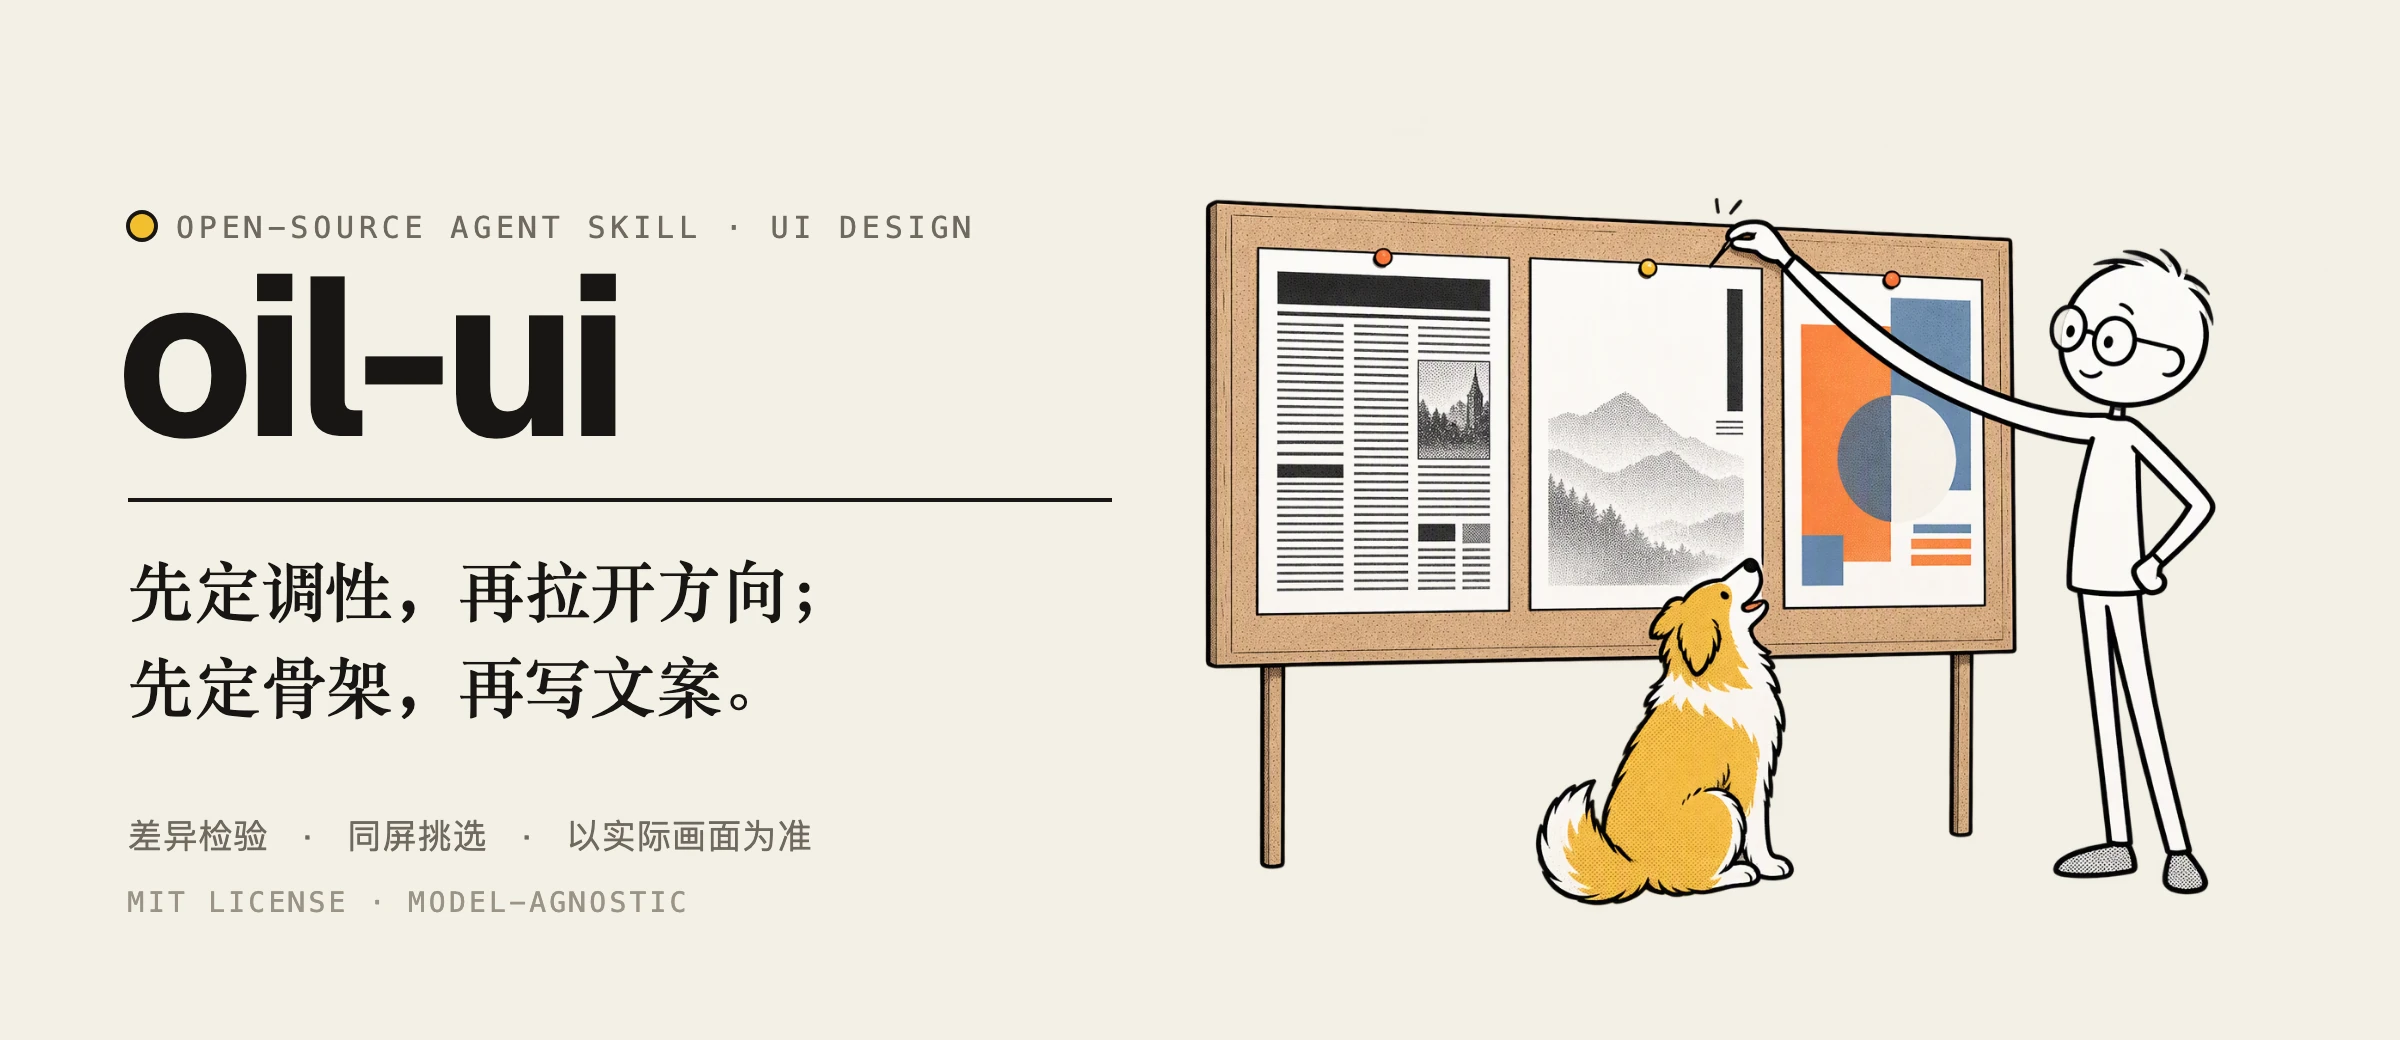
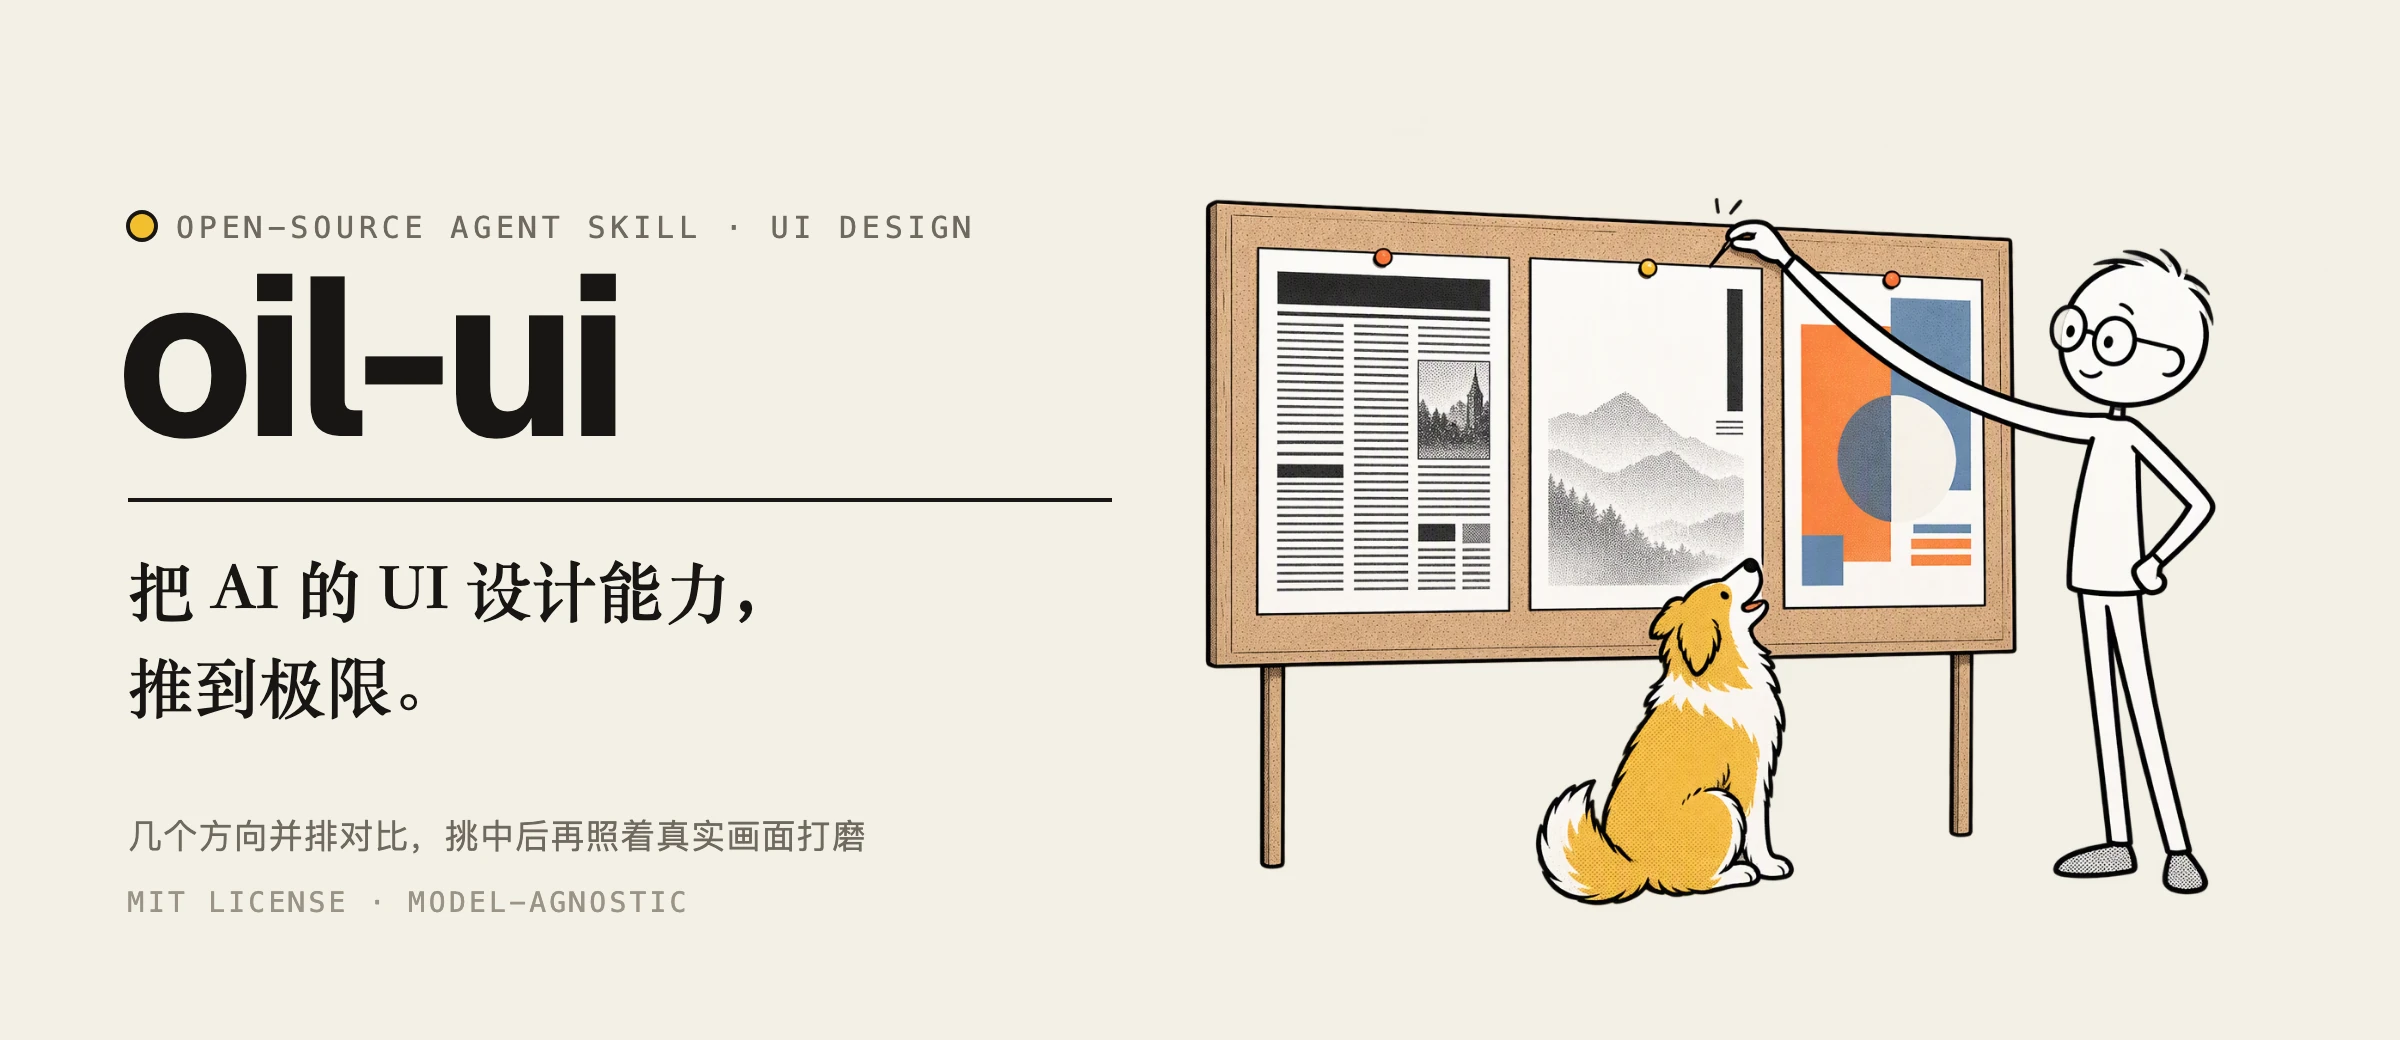
首图文案改成 slogan 和一句大白话说明

Changed region(s): [[0.0312, 0.5231, 0.3438, 0.7077], [0.0312, 0.7692, 0.375, 0.8308]]

diff --git a/README.md b/README.md
@@ -1,5 +1,5 @@
 <p align="center">
-  <img src="./assets/readme/hero.webp" width="100%" alt="oil-ui：先定调性，再拉开方向；先定骨架，再写文案。插画里的人把黄色图钉按在三张风格不同的小样中间那张上">
+  <img src="./assets/readme/hero.webp" width="100%" alt="oil-ui：把 AI 的 UI 设计能力推到极限。插画里的人把黄色图钉按在三张风格不同的小样中间那张上">
 </p>
 
 <p align="center">
